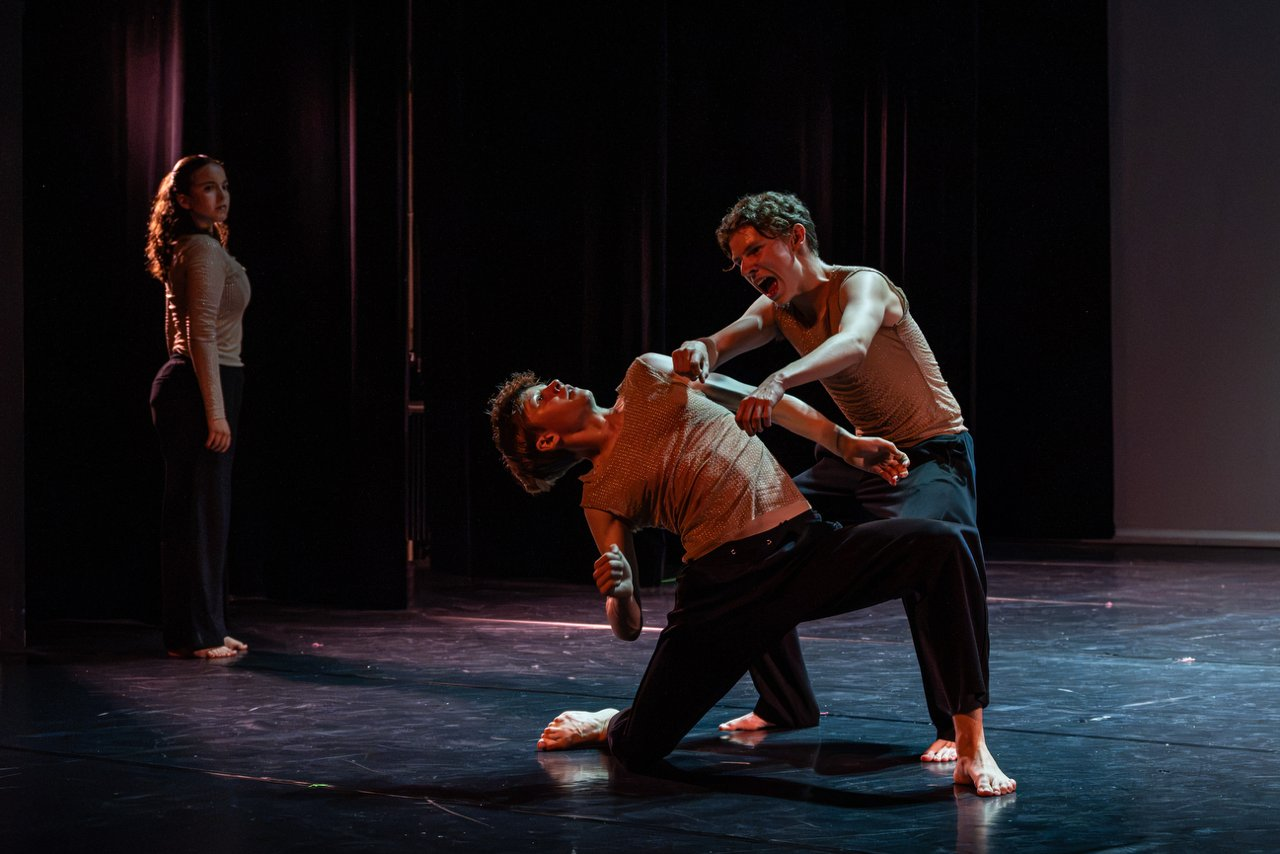
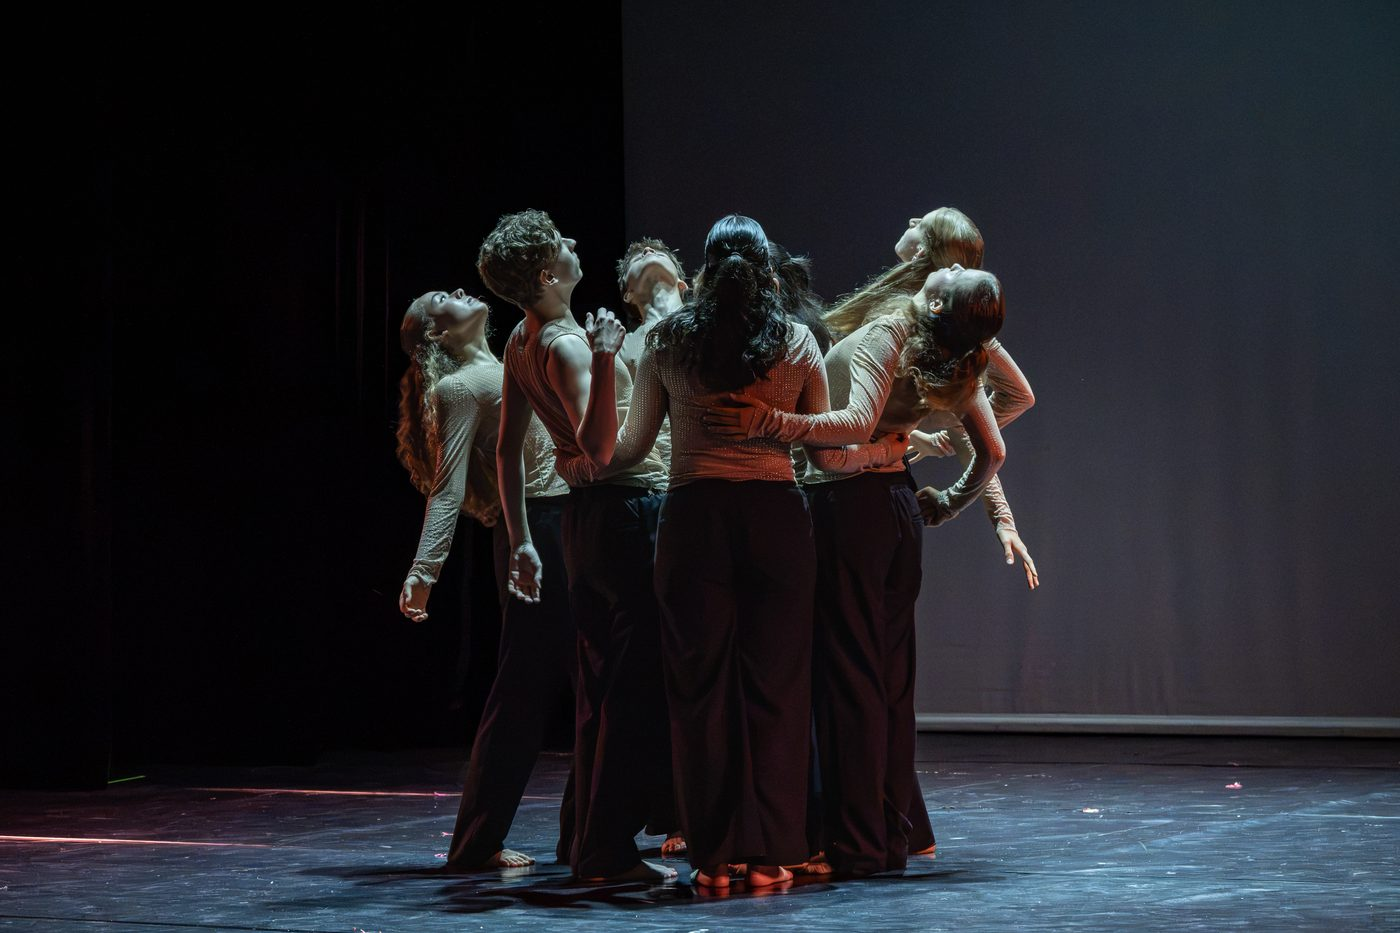
Versione tedesca, nuovo slogan, 8 nuove foto di Unerwartete Materie
- Tedesco (de/) su tutte le pagine: interfaccia, home e biografia, festival, schede con date e formule tradotte ("20. Juni 2026"), privacy, 404
- Slogan: "senza trucchi" / "without tricks" / "sans trucs" / "ohne Tricks" (in home e nei piè di pagina)
- Unerwartete Materie: 8 foto di scena di Roberto Conciatori (Sursee, 20/6/2026) prima delle due già online, ora in fondo
- Galleria delle schede: mosaico che si legge per righe, così l'ordine delle foto è quello della scheda
- Damenwahl: citazione della Luzerner Zeitung ritradotta in tedesco

Claude-Session: https://claude.ai/code/session_0126zv75DN6jSJTYTj9YLyEj

diff --git a/strumenti/modelli/coreografie.html b/strumenti/modelli/coreografie.html
@@ -122,12 +122,11 @@ p{margin:0}
 .credits dt{font-family:var(--mono);font-size:12px;letter-spacing:.1em;text-transform:uppercase;color:var(--muted);padding-top:3px}
 .credits dd{margin:0}
 
-.gallery{column-count:3;column-gap:clamp(8px,1.2vw,16px);margin-top:clamp(36px,5vw,56px)}
-.gallery.n1{column-count:1;max-width:900px}
-.gallery.n2{column-count:2}
-@media (max-width:860px){.gallery{column-count:2}}
-@media (max-width:520px){.gallery,.gallery.n2{column-count:1}}
-.gallery button{display:block;width:100%;padding:0;border:0;margin:0 0 clamp(8px,1.2vw,16px);background:var(--paper-2);cursor:zoom-in;break-inside:avoid}
+/* galleria a mosaico: le foto si leggono per righe (1-2-3, 4-5-6…), le colonne le crea lo script */
+.gallery{display:flex;align-items:flex-start;gap:clamp(8px,1.2vw,16px);margin-top:clamp(36px,5vw,56px)}
+.gallery.n1{max-width:900px}
+.gallery .col{flex:1 1 0;min-width:0;display:flex;flex-direction:column;gap:clamp(8px,1.2vw,16px)}
+.gallery button{display:block;width:100%;padding:0;border:0;margin:0;background:var(--paper-2);cursor:zoom-in}
 .gallery img{width:100%;height:auto}
 .photo-credit{margin-top:6px}
 .lightbox{position:fixed;inset:0;z-index:50;background:rgba(7,8,12,.94);display:grid;grid-template-rows:1fr auto;padding:calc(env(safe-area-inset-top,0px) + 16px) 16px calc(env(safe-area-inset-bottom,0px) + 16px)}
@@ -321,6 +320,26 @@ function renderList(){
   list.innerHTML = html || `<p class="empty">${T.empty}</p>`;
 }
 
+/* ---- galleria: ogni foto va nella colonna più corta, così l'ordine si legge per righe ---- */
+const MQ_2 = matchMedia("(max-width:860px)"), MQ_1 = matchMedia("(max-width:520px)");
+function galleryCols(local, w){
+  const max = local.length === 1 ? 1 : local.length === 2 ? 2 : 3;
+  const n = Math.min(max, MQ_1.matches ? 1 : MQ_2.matches ? 2 : 3);
+  const cols = Array.from({length: n}, () => ({h: 0, html: ""}));
+  local.forEach((p, k) => {
+    const col = cols.reduce((a, b) => b.h < a.h - 0.01 ? b : a);
+    col.html += `<button type="button" data-k="${k}" aria-label="${T.enlarge.replace("{k}",k+1).replace("{n}",local.length)}"><img loading="lazy" src="${p.src}" width="${p.w}" height="${p.h}" alt="${esc(T.photo_alt.replace("{t}",w.titolo).replace("{k}",k+1))}"></button>`;
+    col.h += p.w && p.h ? p.h / p.w : 0.67;
+  });
+  return cols.map(c => `<div class="col">${c.html}</div>`).join("");
+}
+function refreshGallery(){
+  const g = document.querySelector("#work-view:not([hidden]) .gallery");
+  const w = WORKS.find(x => x.slug === location.hash.slice(1));
+  if (g && w) g.innerHTML = galleryCols(PHOTOS[w.slug] || [], w);
+}
+MQ_2.addEventListener("change", refreshGallery); MQ_1.addEventListener("change", refreshGallery);
+
 /* ---- scheda ---- */
 function renderWork(w){
   const i = byYear.indexOf(w), prev = byYear[i-1], next = byYear[i+1];
@@ -332,7 +351,7 @@ function renderWork(w){
   let photos = "";
   if (local.length) {
     const cls = local.length === 1 ? " n1" : local.length === 2 ? " n2" : "";
-    photos = `<div class="gallery${cls}">${local.map((p,k) => `<button type="button" data-k="${k}" aria-label="${T.enlarge.replace("{k}",k+1).replace("{n}",local.length)}"><img loading="lazy" src="${p.src}" width="${p.w}" height="${p.h}" alt="${esc(T.photo_alt.replace("{t}",w.titolo).replace("{k}",k+1))}"></button>`).join("")}</div>` +
+    photos = `<div class="gallery${cls}">${galleryCols(local, w)}</div>` +
       (w.crediti.length ? `<p class="label photo-credit">${T.photo}: ${esc(w.crediti.join(", "))}</p>` : "");
   }
   const dates = (title, arr) => arr.length ? `<div class="work-body"><span class="label">${title}</span><ul class="dates">${arr.map(r => `<li>${esc(r)}</li>`).join("")}</ul></div>` : "";

diff --git a/strumenti/lingue.py b/strumenti/lingue.py
@@ -1,13 +1,13 @@
-"""Testi fissi dell'interfaccia in italiano, inglese e francese, e traduzione automatica
-di date e formule ricorrenti nelle schede delle coreografie.
+"""Testi fissi dell'interfaccia in italiano, inglese, francese e tedesco, e traduzione
+automatica di date e formule ricorrenti nelle schede delle coreografie.
 
-L'italiano è la lingua di partenza. Le traduzioni inglese e francese
-vanno fatte rileggere (idealmente da Enrico) prima di andare online.
+L'italiano è la lingua di partenza. Le traduzioni vanno fatte rileggere
+(idealmente da Enrico, il tedesco da qualcuno di madrelingua) prima di andare online.
 """
 import re
 
-LANGS = ["it", "en", "fr"]
-LANG_NAMES = {"it": "Italiano", "en": "English", "fr": "Français"}
+LANGS = ["it", "en", "fr", "de"]
+LANG_NAMES = {"it": "Italiano", "en": "English", "fr": "Français", "de": "Deutsch"}
 
 # ---------------------------------------------------------------------------
 # Interfaccia comune (menu, piè di pagina)
@@ -16,7 +16,7 @@ COMMON = {
     "it": {
         "nav_works": "Coreografie", "nav_fest": "Mò.DANCEFEST", "nav_bio": "Biografia", "nav_contact": "Contatti",
         "nav_label": "Principale", "lang_label": "Lingua",
-        "motto": "Danza come arte in movimento, senza trucco.",
+        "motto": "Danza come arte in movimento, senza trucchi.",
         "footer_assoc": "Associazione Culturale DANZ@M.E · Acireale",
         "footer_legal": "C.F. e P.IVA 04082100878", "nav_privacy": "Privacy",
         "choreo_by": "Coreografia",
@@ -24,7 +24,7 @@ COMMON = {
     "en": {
         "nav_works": "Works", "nav_fest": "Mò.DANCEFEST", "nav_bio": "Biography", "nav_contact": "Contact",
         "nav_label": "Main", "lang_label": "Language",
-        "motto": "Dance as art in motion, without make-up.",
+        "motto": "Dance as art in motion, without tricks.",
         "footer_assoc": "DANZ@M.E Cultural Association · Acireale",
         "footer_legal": "Tax code and VAT no. 04082100878", "nav_privacy": "Privacy",
         "choreo_by": "Choreography",
@@ -32,10 +32,18 @@ COMMON = {
     "fr": {
         "nav_works": "Chorégraphies", "nav_fest": "Mò.DANCEFEST", "nav_bio": "Biographie", "nav_contact": "Contact",
         "nav_label": "Principal", "lang_label": "Langue",
-        "motto": "La danse comme art en mouvement, sans maquillage.",
+        "motto": "La danse comme art en mouvement, sans trucs.",
         "footer_assoc": "Association culturelle DANZ@M.E · Acireale",
         "footer_legal": "Code fiscal et n° de TVA 04082100878", "nav_privacy": "Confidentialité",
         "choreo_by": "Chorégraphie",
+    },
+    "de": {
+        "nav_works": "Choreografien", "nav_fest": "Mò.DANCEFEST", "nav_bio": "Biografie", "nav_contact": "Kontakt",
+        "nav_label": "Hauptmenü", "lang_label": "Sprache",
+        "motto": "Tanz als Kunst in Bewegung, ohne Tricks.",
+        "footer_assoc": "Kulturverein DANZ@M.E · Acireale",
+        "footer_legal": "Steuernummer und USt-IdNr. 04082100878", "nav_privacy": "Datenschutz",
+        "choreo_by": "Choreografie",
     },
 }
 
@@ -127,6 +135,34 @@ WORKS_UI = {
              "note": "Les premières chorégraphies à l'Opernhaus de Zurich et au Stadttheater de Lucerne, puis l'ORMA Dance Company."},
         ],
     },
+    "de": {
+        "page_title": "Choreografien", "eyebrow": "Archiv", "h1": "Choreografien",
+        "places": {"Svizzera": "Schweiz", "Sicilia": "Sizilien", "Altrove": "Anderswo"},
+        "in_place": {"Svizzera": "in der Schweiz", "Sicilia": "in Sizilien", "Altrove": "anderswo"},
+        "works_word": "Arbeiten",
+        "legend_note": "Uraufführungen pro Jahr. Tippen Sie auf einen Balken, um zu diesem Jahr zu springen.",
+        "premiere_one": "Uraufführung", "premiere_many": "Uraufführungen",
+        "return_note": "2010 · Rückkehr nach Sizilien",
+        "f_period": "Zeitraum", "f_place": "Ort", "all": "Alle", "everywhere": "Überall",
+        "search": "Suchen", "search_ph": "Titel, Compagnie, Musik suchen…",
+        "empty": "Keine Arbeit entspricht der Suche.",
+        "back": "← Alle Choreografien",
+        "k_preview": "Voraufführung", "k_premiere": "Uraufführung", "k_cast": "Besetzung", "k_for": "Für",
+        "k_company": "Compagnie", "k_music": "Musik",
+        "press": "Pressestimmen", "reruns": "Weitere Vorstellungen", "upcoming": "Nächste Termine", "notes": "Anmerkungen",
+        "photo": "Fotos", "enlarge": "Foto {k} von {n} vergrößern", "photo_alt": "{t}, Foto {k}",
+        "close": "Schließen", "pager": "Im Archiv blättern",
+        "decades": [
+            {"id": "2020", "a": "Die", "b": "2020er", "chip": "2020er",
+             "note": "Kreationen für MoDem PRO und CZD2 in Catania und Projekte mit Schweizer Jugendensembles."},
+            {"id": "2010", "a": "Die", "b": "2010er", "chip": "2010er",
+             "note": "Die Rückkehr nach Sizilien und der Beginn des Muddica-Zyklus bei Scenario Pubblico."},
+            {"id": "2000", "a": "Die", "b": "2000er", "chip": "2000er",
+             "note": "Zwischen der Schweiz und Sizilien: DANZ@M.E, die Duette mit Daniela Campione, die Cinevox Dance Company."},
+            {"id": "1990", "a": "Die", "b": "90er", "chip": "90er",
+             "note": "Erste Choreografien am Opernhaus Zürich und am Stadttheater Luzern, dann die ORMA Dance Company."},
+        ],
+    },
 }
 
 # ---------------------------------------------------------------------------
@@ -139,6 +175,8 @@ MONTHS = {
            "August", "September", "October", "November", "December"],
     "fr": ["janvier", "février", "mars", "avril", "mai", "juin", "juillet",
            "août", "septembre", "octobre", "novembre", "décembre"],
+    "de": ["Januar", "Februar", "März", "April", "Mai", "Juni", "Juli",
+           "August", "September", "Oktober", "November", "Dezember"],
 }
 
 # Formule ricorrenti; l'ordine conta (le più lunghe prima).
@@ -195,7 +233,37 @@ PHRASES = {
         ("pianoforte:", "piano :"), (" e ", " et "),
         ("direttore d'orchestra", "direction"), ("ensemble del conservatorio", "ensemble du conservatoire"),
     ],
+    "de": [
+        ("Coreografo, regista e interprete, Assolo con Nello Toscano al violoncello",
+         "Choreograf, Regisseur und Interpret; Solo mit Nello Toscano am Violoncello"),
+        ("Solo con Claudia Fichera performer", "Solo mit der Performerin Claudia Fichera"),
+        ("partecipazione coreografica", "choreografische Mitwirkung"),
+        ("Partecipazione coreografica", "Choreografische Mitwirkung"),
+        ("danzatori con orchestra", "Tänzerinnen und Tänzer mit Orchester"),
+        ("Duo con ", "Duo mit "), ("danzatori", "Tänzerinnen und Tänzer"),
+        ("Giovani coreografi", "Junge Choreografen"),
+        ("OPERNHAUS DI ZURIGO", "OPERNHAUS ZÜRICH"),
+        ("Tour Mauritius per Le Ballet de Lucerne", "Mauritius-Tournee mit Le Ballet de Lucerne"),
+        ("Tour in Sicilia", "Sizilien-Tournee"), ("Tour Sicilia", "Sizilien-Tournee"),
+        ("Tour Mauritius", "Mauritius-Tournee"),
+        ("Finalista al Prix Volinine, 1995 Parigi", "Finalist beim Prix Volinine, Paris 1995"),
+        ("Finalista Wettbewerb Internationalen", "Finalist, Internationaler Wettbewerb"),
+        ("2° Premio Genzano di Roma", "2. Preis, Genzano di Roma"),
+        ("Versione rivisitata: 8 Tänzerinnen und Tänzer", "Überarbeitete Fassung: 8 Tänzerinnen und Tänzer"),
+        ("Per la Schweizer kammerballett, 1999:", "Mit dem Schweizer Kammerballett, 1999:"),
+        ("Filippine", "Philippinen"),
+        ("Theaterhaus Gessnerallee per Plate-Forme", "Theaterhaus Gessnerallee für die Plate-Forme"),
+        ("per I DanzAteliers Youth Ensemble", "mit I DanzAteliers Youth Ensemble"),
+        ("Ospite Coreografo", "Gastchoreograf"), ("Guest Coreografo", "Gastchoreograf"),
+        ("Zurigo", "Zürich"), ("Zurich", "Zürich"), ("Parigi", "Paris"), ("Argovia", "Aargau"),
+        ("pianoforte:", "Klavier:"), (" e ", " und "),
+        ("direttore d'orchestra", "Dirigent"), ("ensemble del conservatorio", "Ensemble des Konservatoriums"),
+    ],
 }
+
+# Mesi tedeschi, per aggiungere il punto ai giorni: "20 Juni" -> "20. Juni", "9 und 10 Januar" -> "9. und 10. Januar"
+_MESI_DE = "|".join(MONTHS["de"])
+_GIORNO_DE = re.compile(r"\b(\d{1,2})(?=(?:\s*(?:und|–|-|,|/)\s*\d{1,2})*\s+(?:%s)\b)" % _MESI_DE)
 
 def tr_text(s, lang):
     if lang == "it" or not s:
@@ -205,6 +273,8 @@ def tr_text(s, lang):
         s = re.sub(r"\b%s\b" % m, MONTHS[lang][i], s, flags=re.I)
     for a, b in PHRASES[lang]:
         s = s.replace(a, b)
+    if lang == "de":
+        s = _GIORNO_DE.sub(r"\1.", s)
     return s
 
 
@@ -213,9 +283,10 @@ def tr_work(w, lang):
     for k in ("prima", "anteprima", "organico", "compagnia"):
         w[k] = tr_text(w[k], lang)
     if lang != "it":
-        w["musica"] = w["musica"].replace(" e ", {"en": " and ", "fr": " et "}[lang])
+        w["musica"] = w["musica"].replace(" e ", {"en": " and ", "fr": " et ", "de": " und "}[lang])
     if w["musica"] in ("Live", "mix", "Collage", "collage", "varie"):
-        w["musica"] = {"en": {"varie": "various"}, "fr": {"varie": "divers"}}.get(lang, {}).get(w["musica"], w["musica"])
+        w["musica"] = {"en": {"varie": "various"}, "fr": {"varie": "divers"},
+                       "de": {"varie": "verschiedene"}}.get(lang, {}).get(w["musica"], w["musica"])
     for k in ("repliche", "prossimamente"):
         w[k] = [tr_text(x, lang) for x in w[k]]
     w["citazioni"] = [dict(c, traduzione=c.get("traduzione_" + lang, "") if lang != "it" else "") for c in w.get("citazioni", [])]

diff --git a/strumenti/genera.py b/strumenti/genera.py
@@ -232,6 +232,8 @@ def ordinale(n, lang):
         return f"{n}ª edizione"
     if lang == "fr":
         return f"{n}{'re' if n == 1 else 'e'} édition"
+    if lang == "de":
+        return f"{n}. Ausgabe"
     suf = "th" if 10 <= n % 100 <= 20 else {1: "st", 2: "nd", 3: "rd"}.get(n % 10, "th")
     return f"{n}{suf} edition"
 
@@ -377,7 +379,7 @@ h1{{font-weight:400;font-size:40px;margin:0 0 12px}} p{{font-family:system-ui,sa
 </style>
 </head>
 <body>
-<div><h1>Pagina non trovata</h1><p>Page not found · Page introuvable</p><p><a id="home" href="/">danz@m.e</a></p></div>
+<div><h1>Pagina non trovata</h1><p>Page not found · Page introuvable · Seite nicht gefunden</p><p><a id="home" href="/">danz@m.e</a></p></div>
 <script>if(location.hostname.endsWith("github.io")){{var b=location.pathname.match(/^\/[^\/]+\//);if(b)document.getElementById("home").href=b[0];}}</script>
 </body>
 </html>
@@ -420,7 +422,7 @@ def main():
     (OUT / "robots.txt").write_text(f"User-agent: *\nAllow: /\nSitemap: {SITE}sitemap.xml\n")
     (OUT / ".nojekyll").write_text("")
     (OUT / "404.html").write_text(pagina_404(), encoding="utf-8")
-    print(f"Sito generato in _site/: {len(works)} coreografie, {len(dimensioni)} immagini, 3 lingue.")
+    print(f"Sito generato in _site/: {len(works)} coreografie, {len(dimensioni)} immagini, {len(LANGS)} lingue.")
 
 
 if __name__ == "__main__":

diff --git a/README.md b/README.md
@@ -1,6 +1,6 @@
 # danzame.it
 
-Sito dell'Associazione Culturale DANZ@M.E di Acireale e archivio delle coreografie di C. Enrico Musmeci, in italiano, inglese e francese.
+Sito dell'Associazione Culturale DANZ@M.E di Acireale e archivio delle coreografie di C. Enrico Musmeci, in italiano, inglese, francese e tedesco.
 
 Ogni modifica salvata in questo repository ripubblica il sito da sola in un paio di minuti. Tutto si può fare dal browser, su github.com, senza installare niente.
 
@@ -10,7 +10,7 @@ Ogni modifica salvata in questo repository ripubblica il sito da sola in un paio
 |---|---|
 | Una scheda per ogni coreografia | `contenuti/coreografie/` (un file `.yml` per lavoro) |
 | Il Mò.DANCEFEST in evidenza in home | `contenuti/festival.yml` |
-| Testi della home e biografia | `contenuti/home/it.yml`, `en.yml`, `fr.yml` |
+| Testi della home e biografia | `contenuti/home/it.yml`, `en.yml`, `fr.yml`, `de.yml` |
 | Foto delle coreografie | `img/coreografie/` |
 | Locandine e foto del festival | `img/festival/` |
 | Ritratto e foto d'archivio | `img/biografia/` |
@@ -25,7 +25,7 @@ Ogni modifica salvata in questo repository ripubblica il sito da sola in un paio
 3. Torna in `contenuti/coreografie/`, poi **Add file → Create new file**. Chiama il file con un nome corto, minuscolo e senza spazi (`titolo-del-lavoro.yml`), incolla il modello e compila i campi.
 4. In fondo clicca **Commit changes**.
 
-Le repliche si scrivono tutte insieme: il sito mostra da solo quelle future come "Prossime date" e quelle passate come "Repliche". Date, "danzatori", "Prima" e le altre etichette si traducono automaticamente in inglese e francese. Titoli, teatri e compositori restano come sono.
+Le repliche si scrivono tutte insieme: il sito mostra da solo quelle future come "Prossime date" e quelle passate come "Repliche". Date, "danzatori", "Prima" e le altre etichette si traducono automaticamente in inglese, francese e tedesco (in tedesco anche il punto dopo il giorno: "20. Juni"). Titoli, teatri e compositori restano come sono.
 
 ## Cambiare i lavori mostrati in home
 
@@ -42,7 +42,7 @@ Le foto dell'edizione vanno in `img/festival/` e si elencano sotto `foto:`. Finc
 
 ## Privacy e cookie
 
-Il sito non usa cookie né statistiche e non carica nulla da altri siti (anche i caratteri sono nel repository), quindi non serve il banner per il consenso. La pagina privacy lo spiega in tre lingue. Se un giorno si aggiungono video di YouTube o Vimeo, mappe, un modulo di contatto o statistiche di visita, va aggiornata `contenuti/privacy.yml` (con la data) e probabilmente serve anche il banner. La P.IVA dell'associazione nel piè di pagina è obbligatoria per legge: non toglierla.
+Il sito non usa cookie né statistiche e non carica nulla da altri siti (anche i caratteri sono nel repository), quindi non serve il banner per il consenso. La pagina privacy lo spiega in quattro lingue. Se un giorno si aggiungono video di YouTube o Vimeo, mappe, un modulo di contatto o statistiche di visita, va aggiornata `contenuti/privacy.yml` (con la data) e probabilmente serve anche il banner. La P.IVA dell'associazione nel piè di pagina è obbligatoria per legge: non toglierla.
 
 ## Se qualcosa non va
 
